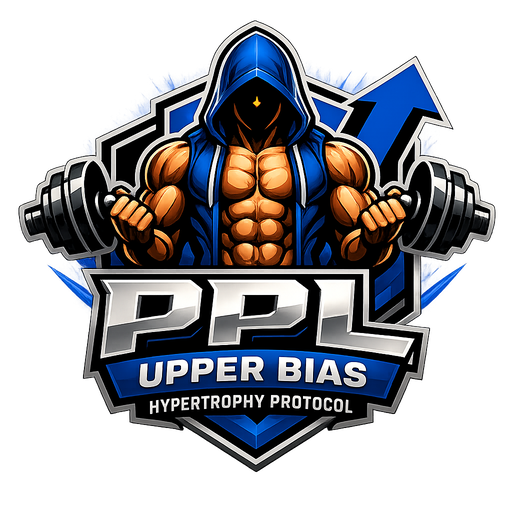
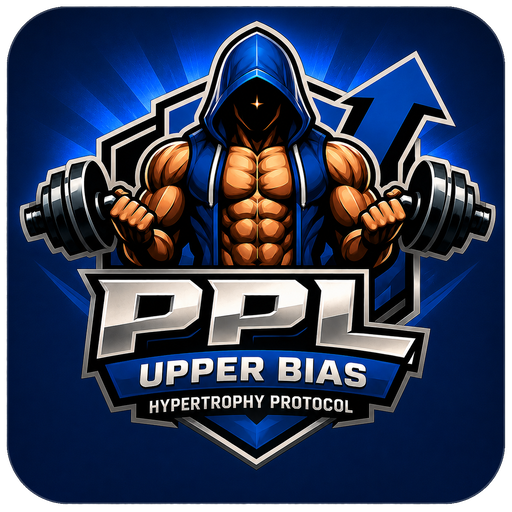
fix: loading screen

diff --git a/src/app/App.tsx b/src/app/App.tsx
@@ -28,6 +28,7 @@ export default function App() {
   };
 
   const [selectedDay, setSelectedDay] = useState<DayKey>(getTodayInJakarta);
+  const [isLoadingScreenVisible, setIsLoadingScreenVisible] = useState(true);
   const [installPrompt, setInstallPrompt] = useState<BeforeInstallPromptEvent | null>(null);
   const [isInstalled, setIsInstalled] = useState(false);
   const [showInstallPopup, setShowInstallPopup] = useState(false);
@@ -35,6 +36,16 @@ export default function App() {
 
   const currentWorkout = workoutData[selectedDay];
   const currentDayIndex = days.indexOf(selectedDay);
+
+  useEffect(() => {
+    const timer = window.setTimeout(() => {
+      setIsLoadingScreenVisible(false);
+    }, 1400);
+
+    return () => {
+      window.clearTimeout(timer);
+    };
+  }, []);
 
   useEffect(() => {
     const handleBeforeInstallPrompt = (event: Event) => {
@@ -103,6 +114,28 @@ export default function App() {
     window.sessionStorage.setItem('install-popup-dismissed', 'true');
     setShowInstallPopup(false);
   };
+
+  if (isLoadingScreenVisible) {
+    return (
+      <div className="flex min-h-screen items-center justify-center bg-gradient-to-br from-slate-950 via-slate-900 to-blue-950 px-6">
+        <div className="flex flex-col items-center text-center">
+          <div className="rounded-[2rem] border border-white/10 bg-white/5 p-4 shadow-2xl backdrop-blur-sm">
+            <img
+              src="/launchericon-512x512-loader.png"
+              alt="Loading Aji Workout"
+              className="h-28 w-28 rounded-[1.5rem] object-cover sm:h-36 sm:w-36"
+            />
+          </div>
+          <p className="mt-6 text-lg font-semibold tracking-wide text-white">
+            Loading your workout
+          </p>
+          <p className="mt-2 text-sm text-blue-100/80">
+            Preparing today&apos;s plan...
+          </p>
+        </div>
+      </div>
+    );
+  }
 
   return (
     <div className="min-h-screen bg-gradient-to-br from-slate-50 to-blue-50/30 pb-20">

diff --git a/index.html b/index.html
@@ -6,8 +6,8 @@
       <meta name="viewport" content="width=device-width, initial-scale=1.0" />
       <meta name="theme-color" content="#2563eb" />
       <link rel="manifest" href="/manifest.webmanifest" />
-      <link rel="icon" href="/launchericon-192x192.png" type="image/png" />
-      <link rel="apple-touch-icon" href="/launchericon-192x192.png" />
+      <link rel="icon" href="/launchericon-192x192-loader.png" type="image/png" />
+      <link rel="apple-touch-icon" href="/launchericon-192x192-loader.png" />
       <title>Aji-Hypertrophy-Workout</title>
       <style>html, body { height: 100%; margin: 0; } #root { height: 100%; }</style>
     </head>

diff --git a/public/sw.js b/public/sw.js
@@ -1,5 +1,5 @@
-const CACHE_NAME = 'gym-split-cache-v2';
-const APP_SHELL = ['/', '/index.html', '/manifest.webmanifest', '/launchericon-192x192.png', '/launchericon-512x512.png'];
+const CACHE_NAME = 'gym-split-cache-v3';
+const APP_SHELL = ['/', '/index.html', '/manifest.webmanifest', '/launchericon-192x192-loader.png', '/launchericon-512x512-loader.png'];
 
 self.addEventListener('install', (event) => {
   event.waitUntil(